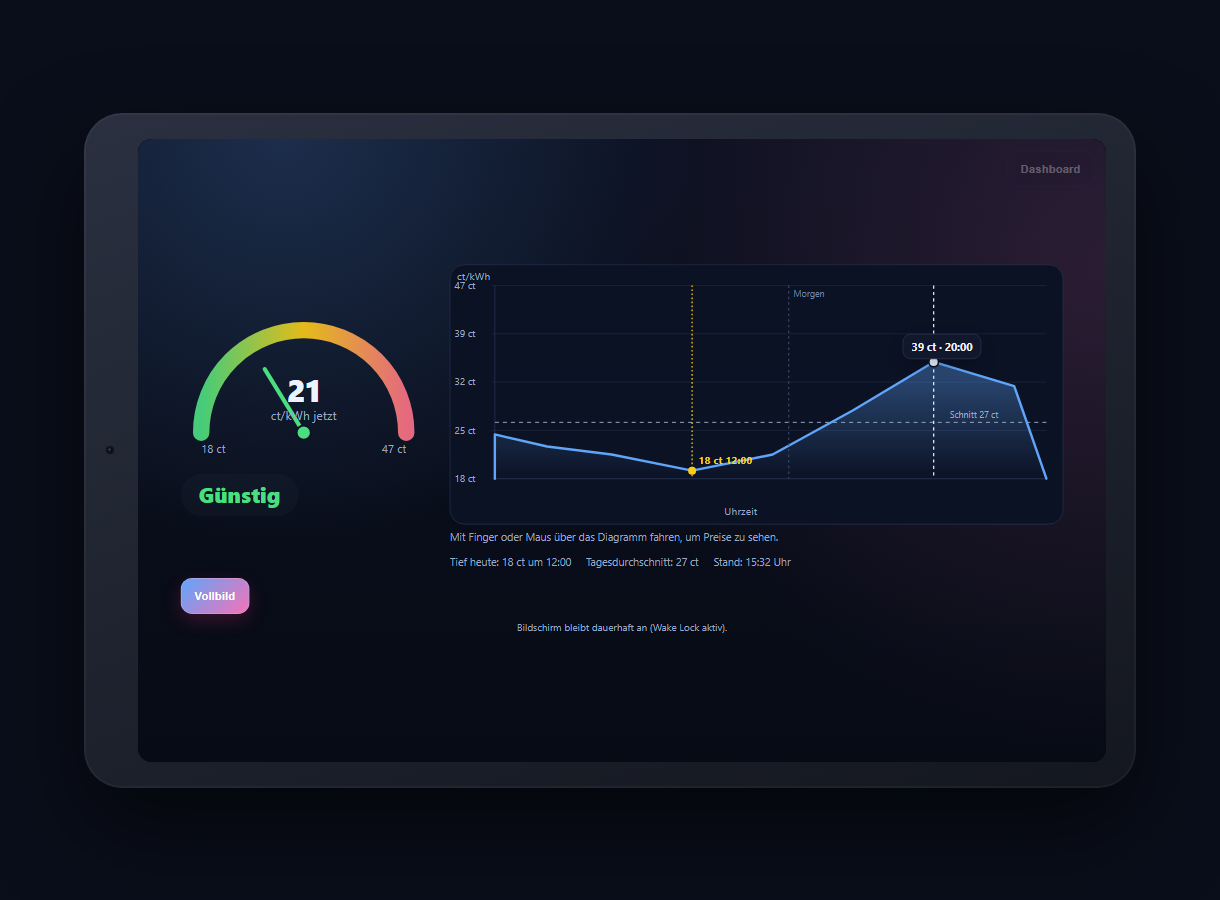
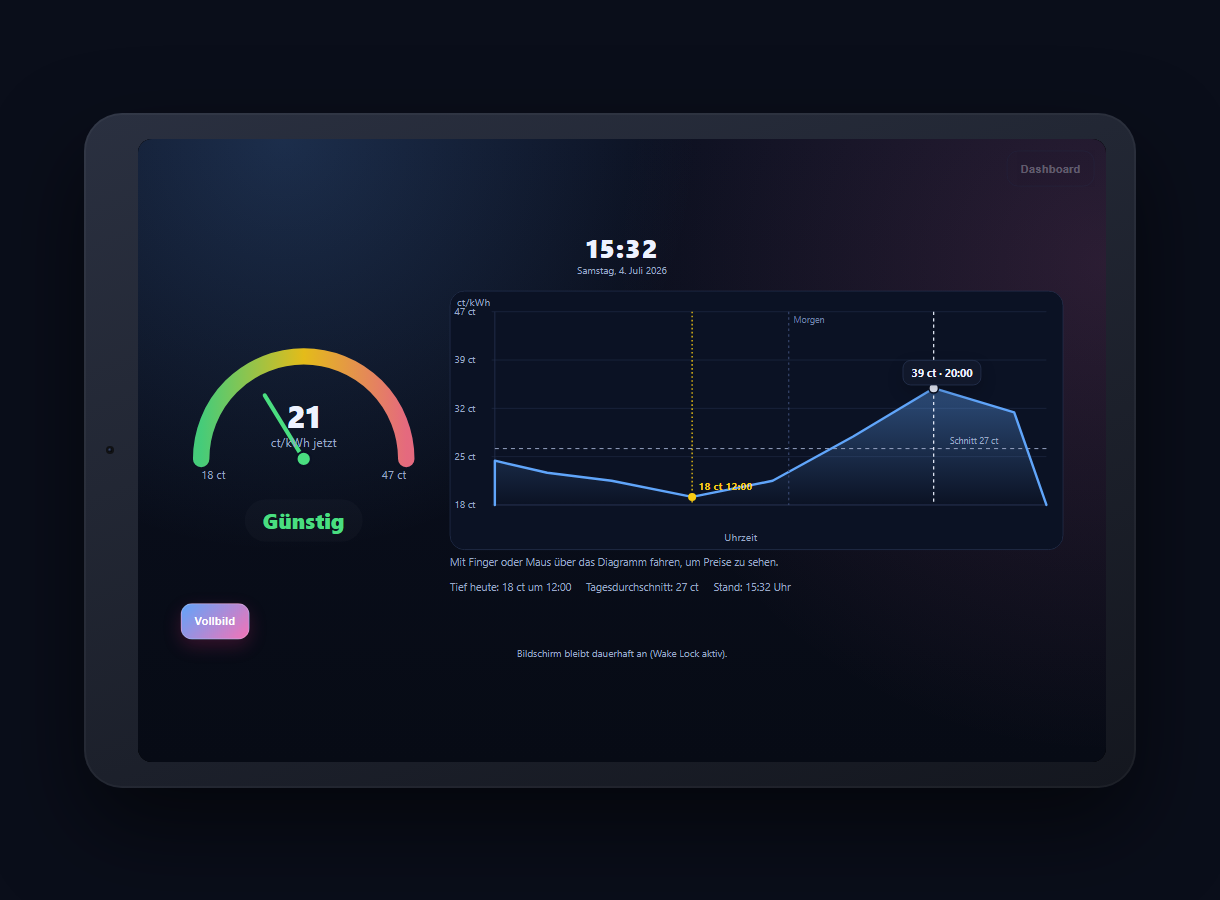
Kiosk mode: add live clock, fix status centering in landscape
Adds a ticking current time/date display above the gauge and chart.
Also fixes the price-status badge not being centered under the gauge
in the landscape two-column layout.

diff --git a/docs/mockup-src/kiosk.html b/docs/mockup-src/kiosk.html
@@ -7,6 +7,9 @@
 <style>
 body{padding:0!important;display:flex;align-items:center;justify-content:center;min-height:100vh;overflow-x:hidden}
 .kiosk-wrap{width:min(820px,94vw);padding:20px;text-align:center}
+.kiosk-clock{margin-bottom:16px}
+.kiosk-time{font-size:48px;font-weight:800;line-height:1.1;letter-spacing:1px}
+.kiosk-date{font-size:16px;color:var(--muted);margin-top:2px;text-transform:capitalize}
 .kiosk-gauge{max-width:420px;margin:0 auto}
 .kiosk-gauge svg{width:100%;max-width:100%;height:auto;background:transparent;border:0;margin:0}
 .kiosk-status{display:inline-block;font-size:26px;font-weight:800;margin:6px 0 14px;padding:8px 22px;border-radius:999px;background:var(--overlay-faint)}
@@ -24,8 +27,11 @@ body{padding:0!important;display:flex;align-items:center;justify-content:center;
 body{padding:0!important;align-items:center}
 .kiosk-wrap{width:min(1120px,97vw);padding:14px 22px}
 .kiosk-columns{display:flex;align-items:center;gap:28px;text-align:left}
-.kiosk-col-left{flex:0 0 clamp(200px,26vw,300px)}
+.kiosk-col-left{flex:0 0 clamp(200px,26vw,300px);text-align:center}
 .kiosk-col-right{flex:1;min-width:0}
+.kiosk-clock{margin-bottom:10px}
+.kiosk-time{font-size:clamp(22px,3.4vw,32px)}
+.kiosk-date{font-size:12px}
 .kiosk-gauge{max-width:100%;margin:0}
 .kiosk-status{margin:8px 0 0;font-size:clamp(18px,2.6vw,26px)}
 .kiosk-chart{margin-top:0}
@@ -39,6 +45,7 @@ body{padding:0!important;align-items:center}
 
 <a class='kiosk-exit' href='#'><button class='secondary' type='button'>Dashboard</button></a>
 <div class='kiosk-wrap'>
+<div class='kiosk-clock'><div class='kiosk-time'>15:32</div><div class='kiosk-date'>Samstag, 4. Juli 2026</div></div>
 <div class='kiosk-columns'>
 
 <div class='kiosk-col-left'>